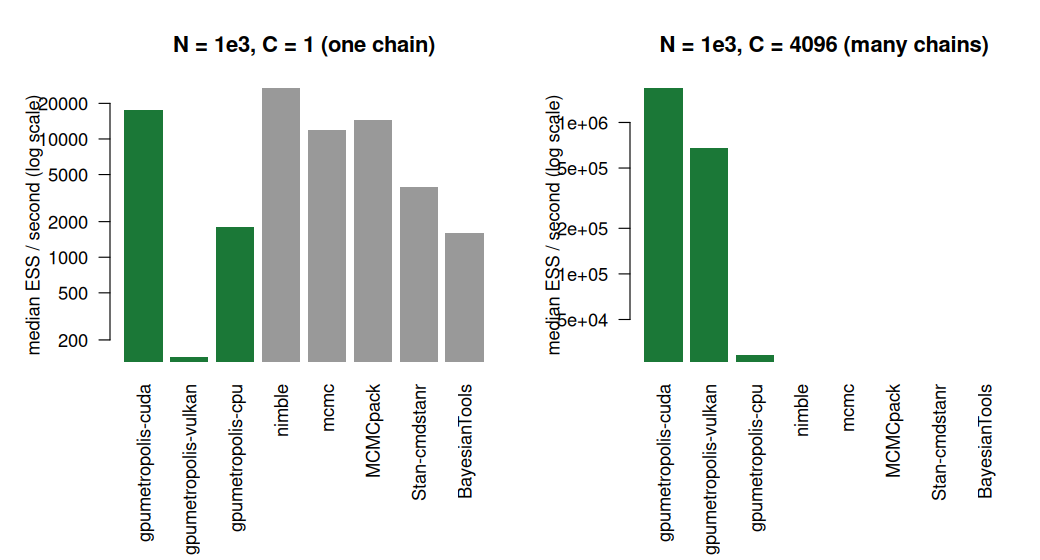
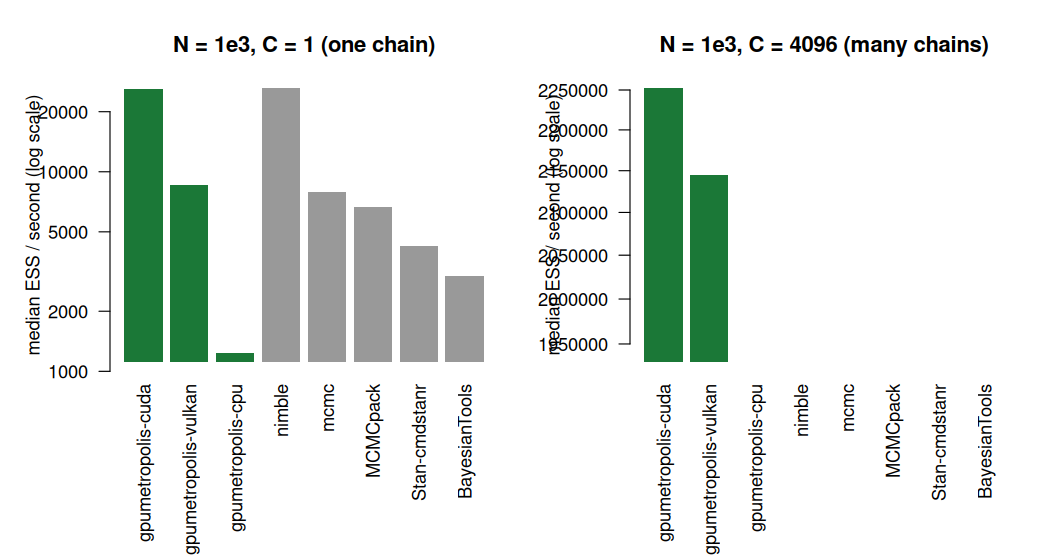
benchmark: update README and analysis to the full M1 run
Replace the reduced-run numbers with the full M1 run (15 replications
per cell over the registered N x C grid, 1129 completed runs):

- H1 gate: 7 of 8 backends pass with no Holm survivor; Vulkan carries
  one. The v0.2 secondary diagnostic shows the per-backend KS rejection
  rate at alpha 0.05 spans 4.1 to 10.3 percent gate-wide (MCMCpack
  highest at 10.3, Vulkan below at 9.5), so the survivor reflects the
  KS gate's anti-conservativeness on autocorrelated draws, not a Vulkan
  defect. R-hat median 1.0016, max 1.0199.
- One chain: CUDA reaches 0.99x the best competitor at N=1e3 (parity)
  and 0.07x at N=1e5.
- Many chains: CUDA is 54x the best competitor at C=64, N=1e3, and the
  sole backend completing the C=4096 cell.

analyze.R reads benchmark/results/full_m1/results.csv and writes
benchmark/full_m1_cell_summary.csv.

diff --git a/README.md b/README.md
@@ -136,30 +136,39 @@ committed before any result existed. The primary metric is effective sample
 size per second, computed uniformly with `coda` so the estimator is not a
 confounder.
 
-The figure below is from the reduced run (protocol amendments v0.5 and v0.6:
-model M1, the Gaussian mean; ten replications per cell; sized to a 30 minute
-ceiling). The full factorial remains the registered target.
+The figure below is from the full M1 run (protocol amendments v0.5 and v0.6:
+model M1, the Gaussian mean; fifteen replications per cell over the registered
+grid of data sizes N and chain counts C; 1129 completed runs). The full
+factorial over models M2 to M4 remains the registered target.
 
 ![ESS per second by backend](man/figures/benchmark_ess_per_sec.png)
 
 The result, stated plainly:
 
-- Correctness first: all eight backends pass the H1 gate, the Holm-Bonferroni
-  family-wise correction over the Kolmogorov-Smirnov tests; R-hat has median
-  1.001 across every completed run.
-- With **one chain**, `gpumetropolis` does not beat the mature CPU packages:
-  its CUDA backend reaches 0.4 to 0.65 times the effective sample size per
-  second of the best competitor. A GPU does not help a single chain; this is
-  the regime the caveats name.
-- With **many chains**, the picture inverts. At 64 chains the CUDA backend is
-  11 to 35 times the best competitor. At 4096 chains it is the only backend
-  that completes the cell at all: the competitors do not run thousands of
-  chains within the time budget.
+- Correctness first. Seven of the eight backends pass the H1 gate, the
+  Holm-Bonferroni family-wise correction over the Kolmogorov-Smirnov tests,
+  with no surviving rejection; the Vulkan backend carries one. The protocol's
+  v0.2 secondary diagnostic resolves this: the per-backend KS rejection rate at
+  nominal `alpha = 0.05` ranges from 4.1 to 10.3 percent across all eight
+  backends, with `MCMCpack`, a mature reference package, the highest at 10.3
+  percent and Vulkan below it at 9.5 percent. The KS gate is anti-conservative
+  on the autocorrelated draws MCMC produces, gate-wide and not specific to one
+  backend; the single Holm survivor reflects that property, not a Vulkan
+  defect. R-hat has median 1.0016 and maximum 1.0199 across every completed
+  run.
+- With **one chain**, `gpumetropolis` does not beat the mature CPU packages.
+  At N = 1e3 its CUDA backend reaches 0.99 times the effective sample size per
+  second of the best competitor, parity; at N = 1e5 it reaches 0.07 times. A
+  GPU does not help a single chain; this is the regime the caveats name.
+- With **many chains**, the picture inverts. At 64 chains and N = 1e3 the CUDA
+  backend is 54 times the best competitor. At 4096 chains it is the only
+  backend that completes the cell at all: the competitors do not run thousands
+  of chains within the time budget.
 
 So the honest reading: `gpumetropolis` earns its place in the many-chains
 regime and on the portability of one kernel source across CPU, CUDA and
 Vulkan, not as a faster single-chain sampler. The per-cell numbers are in
-[`benchmark/reduced_m1_cell_summary.csv`](https://github.com/pcbrom/gpumetropolis/blob/main/benchmark/reduced_m1_cell_summary.csv).
+[`benchmark/full_m1_cell_summary.csv`](https://github.com/pcbrom/gpumetropolis/blob/main/benchmark/full_m1_cell_summary.csv).
 
 The machine and software environment of the benchmark host is recorded in
 [`benchmark/ENVIRONMENT.md`](https://github.com/pcbrom/gpumetropolis/blob/main/benchmark/ENVIRONMENT.md),